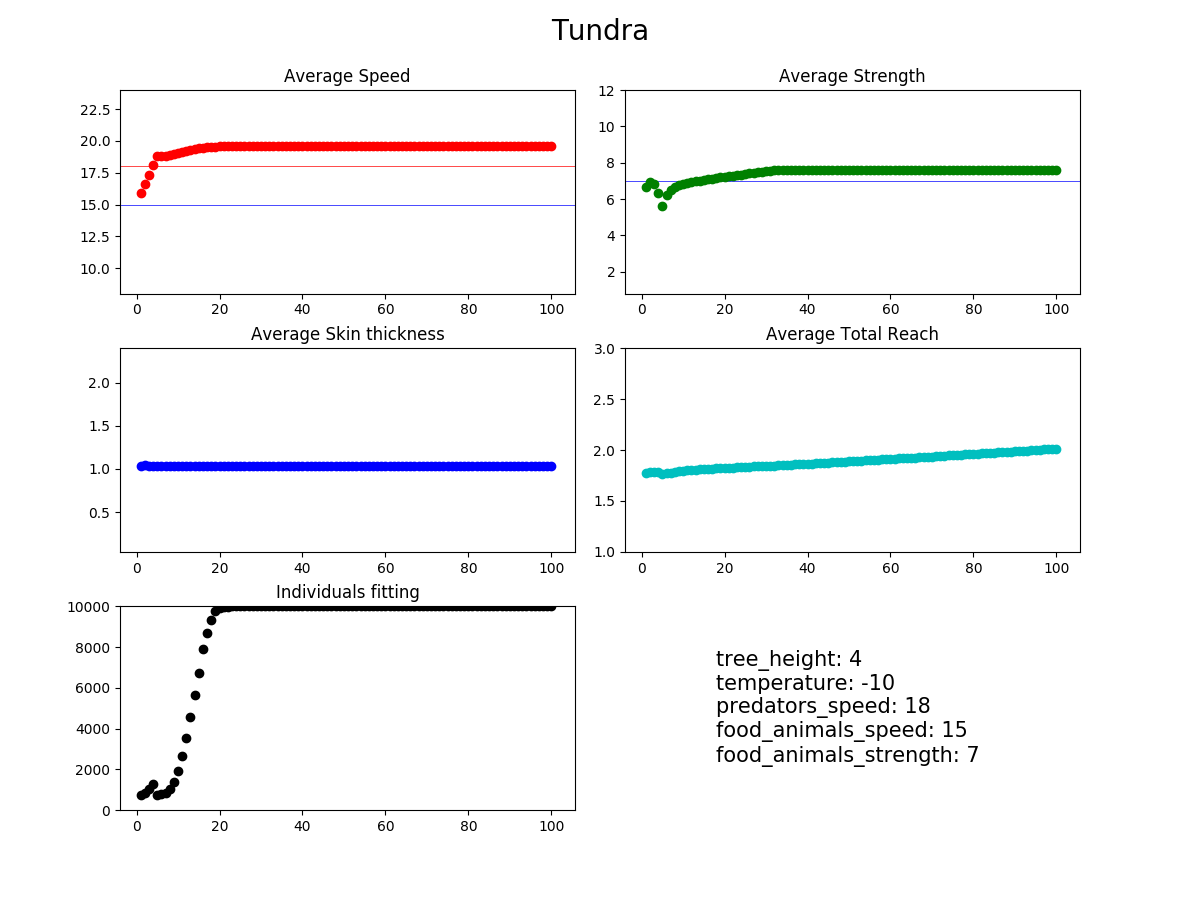
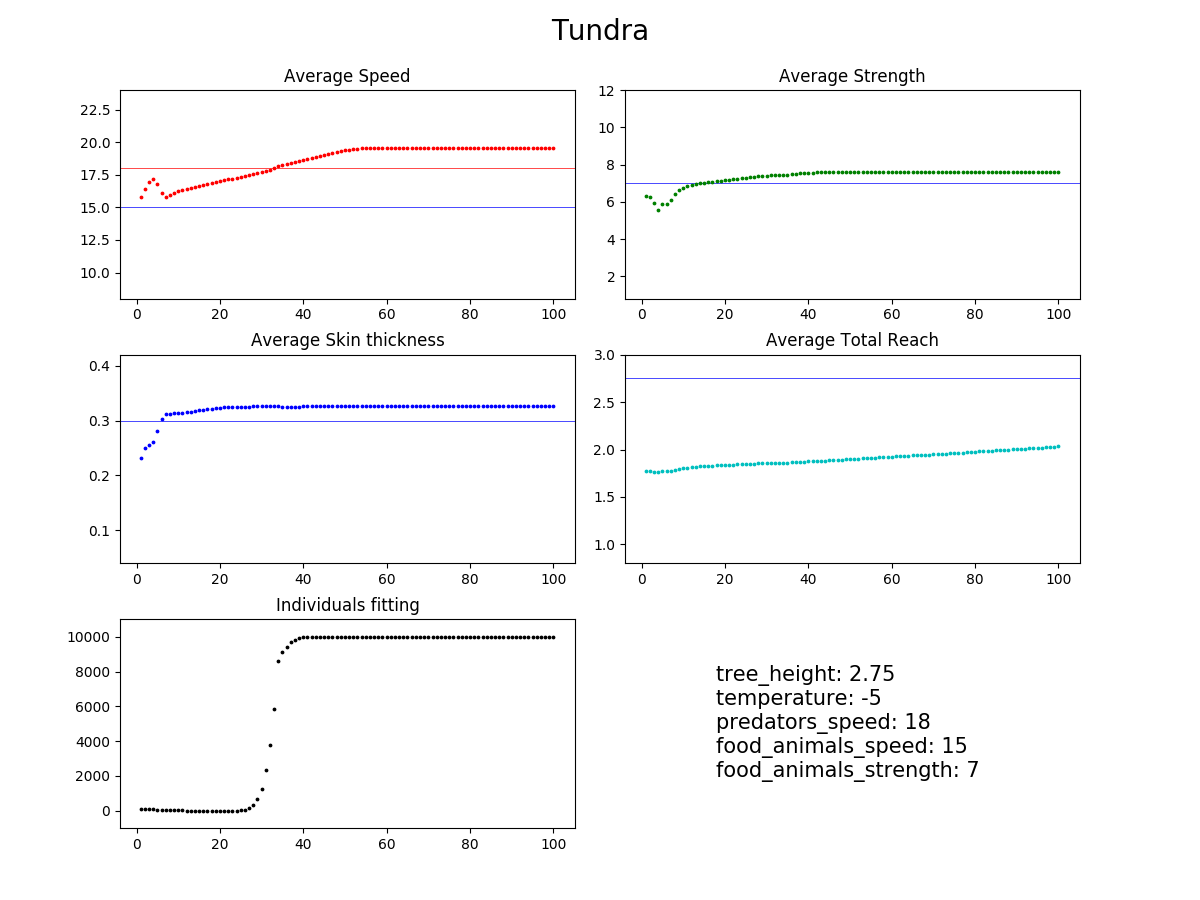
Added temperature parameter

diff --git a/src/natural_selection/filter.py b/src/natural_selection/filter.py
@@ -39,6 +39,7 @@ async def evaluate_individual(individual, environment):
     individual_value = check_enough_food(individual, individual_value, environment)
     individual_value = check_too_good(individual, individual_value, environment)
     individual_value = check_fast_enough(individual, individual_value, environment)
+    individual_value = check_warm_enough(individual, individual_value, environment)
     return individual, individual_value
 
 
@@ -52,13 +53,13 @@ def value_function(individual, environment):
     :return:
     :rtype:
     """
+    temp_threshold = 0.05 + (abs(environment['temperature'] - 20) * (0.30 / 30))
     total_value = 0
     total_reach = individual['height'] + individual['arm_length'] + individual['jump']
     total_value += total_reach / environment['tree_height']
     total_value += individual['speed'] / environment['food_animals_speed']
     total_value += individual['strength'] / environment['food_animals_strength']
-    # total_value += \
-    #     individual['skin_thickness']
+    total_value += individual['skin_thickness'] / temp_threshold
     return total_value
 
 
@@ -93,8 +94,12 @@ def check_too_good(individual, total_value, environment):
     ind_speed_vs_predator = individual['speed'] / environment['predators_speed']
     ind_speed_vs_food = individual['speed'] / environment['food_animals_speed']
     ind_strength_vs_food = individual['strength'] / environment['food_animals_strength']
+    temp_threshold = 0.05 + (abs(environment['temperature'] - 20) * (0.30 / 30))
 
     if individual['total_reach'] / environment['tree_height'] > 1.1:
+        total_value = total_value * 0.50
+
+    if individual['skin_thickness'] / temp_threshold > 1.1:
         total_value = total_value * 0.50
 
     if ind_speed_vs_food > 1.1:
@@ -135,6 +140,39 @@ def check_fast_enough(individual, total_value, environment):
     :rtype: float
     """
     if not is_fast_enough(individual, environment):
+        total_value = total_value * 0.1
+    else:
+        total_value = total_value * 2
+    return total_value
+
+
+def is_warm_enough(individual, environment):
+    """
+
+    :param individual:
+    :type individual:
+    :param environment:
+    :type environment:
+    :return:
+    :rtype:
+    """
+    temp_threshold = 0.05 + (abs(environment['temperature'] - 20) * (0.30 / 30))
+    if individual['skin_thickness'] < temp_threshold:
+        return False
+    return True
+
+
+def check_warm_enough(individual, total_value, environment):
+    """
+    Check if the individual's speed is high enough to scape from predators. Otherwise give a big penalization.
+    :param individual:
+    :type individual: Individual
+    :param total_value:
+    :type total_value: float
+    :return:
+    :rtype: float
+    """
+    if not is_warm_enough(individual, environment):
         total_value = total_value * 0.1
     else:
         total_value = total_value * 2

diff --git a/src/tools/plot.py b/src/tools/plot.py
@@ -29,9 +29,11 @@ class PlotWrapper:
         plt.gcf().subplots_adjust(bottom=0.08, right=0.9, left=0.1, top=0.9)
 
     def add_limits(self, environment):
+        temp_threshold = 0.05 + (abs(environment['temperature'] - 20) * (0.30 / 30))
         self.ax1.axhline(y=environment['predators_speed'], c="red", linewidth=0.5, zorder=0)
         self.ax1.axhline(y=environment['food_animals_speed'], c="blue", linewidth=0.5, zorder=0)
         self.ax2.axhline(y=environment['food_animals_strength'], c="blue", linewidth=0.5, zorder=0)
+        self.ax3.axhline(y=temp_threshold, c="blue", linewidth=0.5, zorder=0)
         self.ax4.axhline(y=environment['tree_height'], c="blue", linewidth=0.5, zorder=0)
 
         environment_params = '\n'.join(['{}: {}'.format(key, value) for key, value in environment.items()])

diff --git a/src/tools/analyze.py b/src/tools/analyze.py
@@ -1,3 +1,5 @@
+from src.natural_selection.filter import is_fast_enough, is_warm_enough
+
 
 def analyze_population(current_population, environment):
     total_speed = 0
@@ -13,7 +15,8 @@ def analyze_population(current_population, environment):
         if ((individual['height'] + individual['arm_length'] + individual['jump']) > environment['tree_height'] or
             (individual['speed'] > environment['food_animals_speed'] and
              individual['strength'] > environment['food_animals_strength'])) and \
-           individual['speed'] > environment['predators_speed']:
+                is_fast_enough(individual, environment) and \
+                is_warm_enough(individual, environment):
             total_fitting += 1
     avgs = {
         'avg_speed': total_speed / len(current_population),

diff --git a/settings/settings.py b/settings/settings.py
@@ -8,7 +8,7 @@ INDIVIDUALS_PARAMS = {
     'speed': [10, 20],
     'strength': [1, 10],
     'jump': [0, 0.5],
-    'skin_thickness': [0.05, 2]
+    'skin_thickness': [0.05, 0.35]
 }
 
 ENVIRONMENTS = {
@@ -20,8 +20,8 @@ ENVIRONMENTS = {
         'food_animals_strength': 5
     },
     'Tundra': {
-        'tree_height': 4,
-        'temperature': -10,
+        'tree_height': 2.75,
+        'temperature': -5,
         'predators_speed': 18,
         'food_animals_speed': 15,
         'food_animals_strength': 7
@@ -34,7 +34,7 @@ ENVIRONMENTS = {
         'food_animals_strength': 8
     },
     'Badlands': {
-        'tree_height': 4,
+        'tree_height': 2.75,
         'temperature': 30,
         'predators_speed': 20,
         'food_animals_speed': 20,

diff --git a/GeneticAlgorithm.py b/GeneticAlgorithm.py
@@ -110,6 +110,6 @@ if __name__ == '__main__':
     try:
         _main(sys.argv)
     except (KeyboardInterrupt, SystemExit):
-        print("Execution cancelled manually")
+        print("\nExecution cancelled manually")
         logging.info("Execution cancelled")
         sys.exit()
